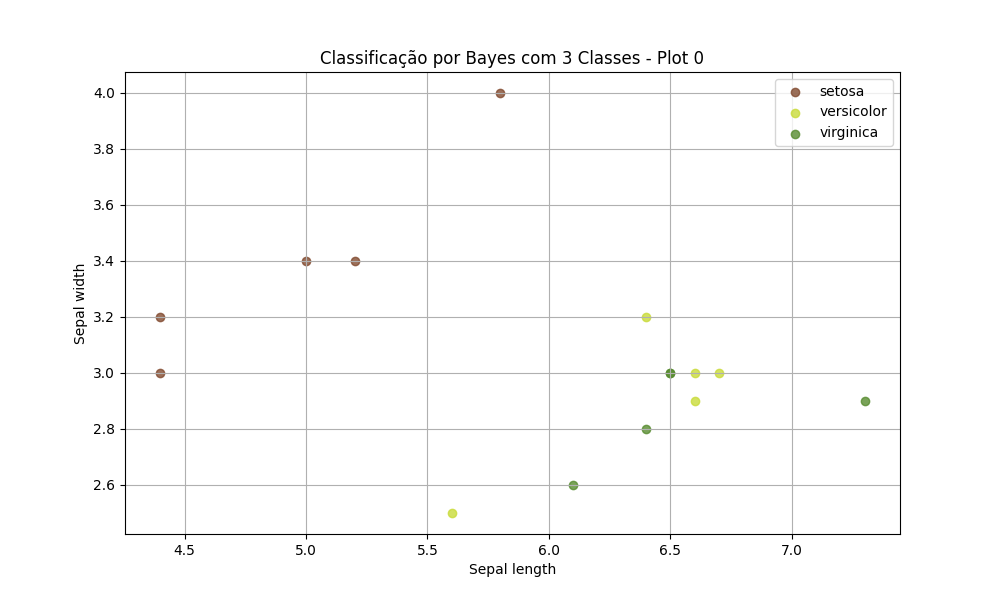
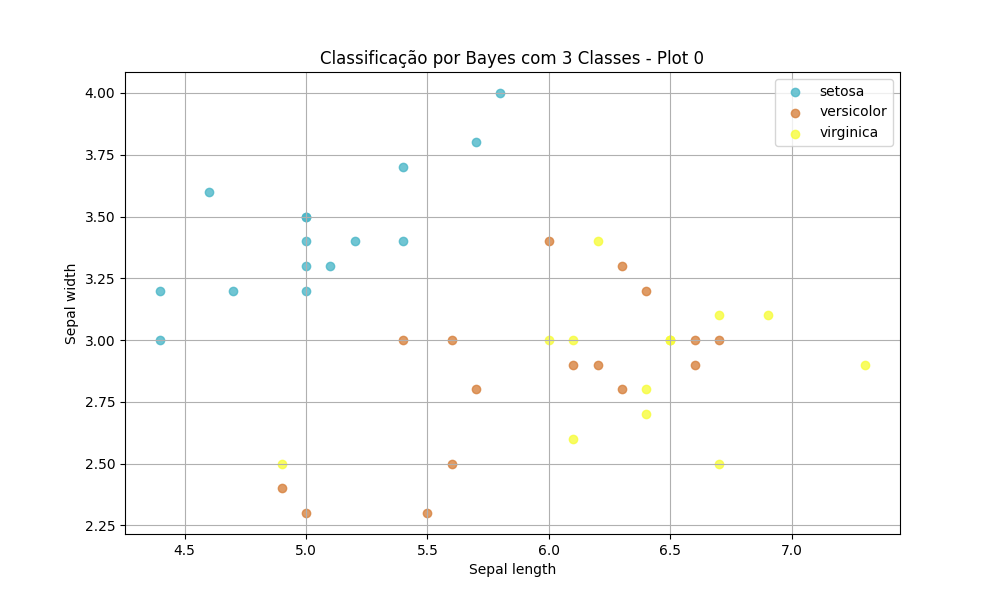
Plot de Bayes regularizado, mas sem area de classes. Modificação da apresentaçao na matriz de confusão

diff --git a/backend/controllers/BayesClassifier.py b/backend/controllers/BayesClassifier.py
@@ -85,8 +85,26 @@ class BayesClassifier:
     def pressure(y_test, result, feature):
         if 'Prediction' not in result.columns:
             return "Coluna 'Prediction' não encontrada em result"
+        
+        # Calcular a matriz de confusão
         matrixConfusion = confusion_matrix(y_test.to_frame(name=feature), result['Prediction'])
-        return matrixConfusion
+        
+        # Obter os tipos de classes
+        classes = sorted(set(y_test.to_frame(name=feature)[feature]) | set(result['Prediction']))
+        
+        # Criar um DataFrame com rótulos nas linhas e colunas
+        df_matrixConfusion = pd.DataFrame(matrixConfusion, index=classes, columns=classes)
+        
+        # Adicionar uma coluna dinamicamente usando a variável feature para representar os índices
+        df_matrixConfusion[feature] = df_matrixConfusion.index
+        
+        # Reordenar colunas para que a variável feature seja a primeira coluna
+        df_matrixConfusion = df_matrixConfusion[[feature] + [col for col in df_matrixConfusion.columns if col != feature]]
+        
+        # Converter o DataFrame para uma lista de listas
+        matrix_list = [df_matrixConfusion.columns.tolist()] + df_matrixConfusion.reset_index(drop=True).values.tolist()
+
+        return matrix_list
 
     def plot(self, colors, columnX, columnY, x_test, classifications, index):
         result = x_test.copy()
@@ -118,6 +136,7 @@ class BayesClassifier:
         plt.grid(True)'''
 
 
+        result = x_test.copy()
         # Use o backend "Agg" para evitar problemas de GUI
         plt.switch_backend('Agg')
 
@@ -126,29 +145,11 @@ class BayesClassifier:
         y_min, y_max = result[columnY].min() - 1, result[columnY].max() + 1
         xx, yy = np.meshgrid(np.arange(x_min, x_max, 0.01), np.arange(y_min, y_max, 0.01))
 
-        # Calcular a função discriminante para cada ponto da grade
-        Z = np.zeros(xx.shape)
-        for i in range(xx.shape[0]):
-            for j in range(xx.shape[1]):
-                point = np.array([xx[i, j], yy[i, j]])
-                discriminant_values = []
-                for key, tipo in classifications.items():
-                    prior = priors[key]
-                    mean = means[key]
-                    cov = covariances[key]
-                    d_value = discriminant(point, prior, mean, cov)
-                    discriminant_values.append(d_value)
-                    # +1 para corresponder às chaves de classificação 
-                    Z[i, j] = np.argmax(discriminant_values) + 1
-                    
-        # Plotar a grade de decisão
-        plt.contourf(xx, yy, Z, alpha=0.3, cmap=plt.cm.Paired)
-
         # Plotar resultados
         plt.figure(figsize=(10, 6))
 
         for idx, (key, tipo) in enumerate(classifications.items()):
-            print("model",idx, "tipo", tipo)
+            #print("model",idx, "tipo", tipo)
             plt.scatter(
                 result[result['Prediction'] == tipo][columnX],
                 result[result['Prediction'] == tipo][columnY],
@@ -167,7 +168,6 @@ class BayesClassifier:
         image_path = f'{directory}/plot_{index}.png'
         plt.savefig(image_path)
         plt.close()
-        
         return image_path
 
         '''/*img = io.BytesIO()

diff --git a/backend/controllers/MinimumDistanceClassifier.py b/backend/controllers/MinimumDistanceClassifier.py
@@ -66,8 +66,26 @@ class MinimumDistanceClassifier:
     def pressure(y_test, result, feature):
         if 'Prediction' not in result.columns:
             return "Coluna 'Prediction' não encontrada em result"
+        
+        # Calcular a matriz de confusão
         matrixConfusion = confusion_matrix(y_test.to_frame(name=feature), result['Prediction'])
-        return matrixConfusion
+        
+        # Obter os tipos de classes
+        classes = sorted(set(y_test.to_frame(name=feature)[feature]) | set(result['Prediction']))
+        
+        # Criar um DataFrame com rótulos nas linhas e colunas
+        df_matrixConfusion = pd.DataFrame(matrixConfusion, index=classes, columns=classes)
+        
+        # Adicionar uma coluna dinamicamente usando a variável feature para representar os índices
+        df_matrixConfusion[feature] = df_matrixConfusion.index
+        
+        # Reordenar colunas para que a variável feature seja a primeira coluna
+        df_matrixConfusion = df_matrixConfusion[[feature] + [col for col in df_matrixConfusion.columns if col != feature]]
+        
+        # Converter o DataFrame para uma lista de listas
+        matrix_list = [df_matrixConfusion.columns.tolist()] + df_matrixConfusion.reset_index(drop=True).values.tolist()
+
+        return matrix_list
 
     def plot(self, colors, columnX, columnY, x_test, classifications, index):
         dataResult = x_test.copy()

diff --git a/backend/app.py b/backend/app.py
@@ -84,7 +84,7 @@ def get_linear_discriminant():
         prepare_directory(directory)
 
         #Matriz de comfusao
-        precision = minimumDistanceClassifier.pressure(capture.transcribe(capture.y_test), predictions, capture.feature).tolist()
+        precision = minimumDistanceClassifier.pressure(capture.transcribe(capture.y_test), predictions, capture.feature)
 
         columns = list(capture.x_test.columns)
         plots = []
@@ -130,8 +130,8 @@ def get_bayesClassifier():
         directory = 'bayesClassifier'
         prepare_directory(directory)
 
-        precision = bayesClassifier.pressure(capture.transcribe(capture.y_test), predictions, capture.feature).tolist()
-        print("model",train)
+        precision = bayesClassifier.pressure(capture.transcribe(capture.y_test), predictions, capture.feature)
+
         #Possibilidade de itens para combinação
         columns = list(capture.x_test.columns)
         plots = []
